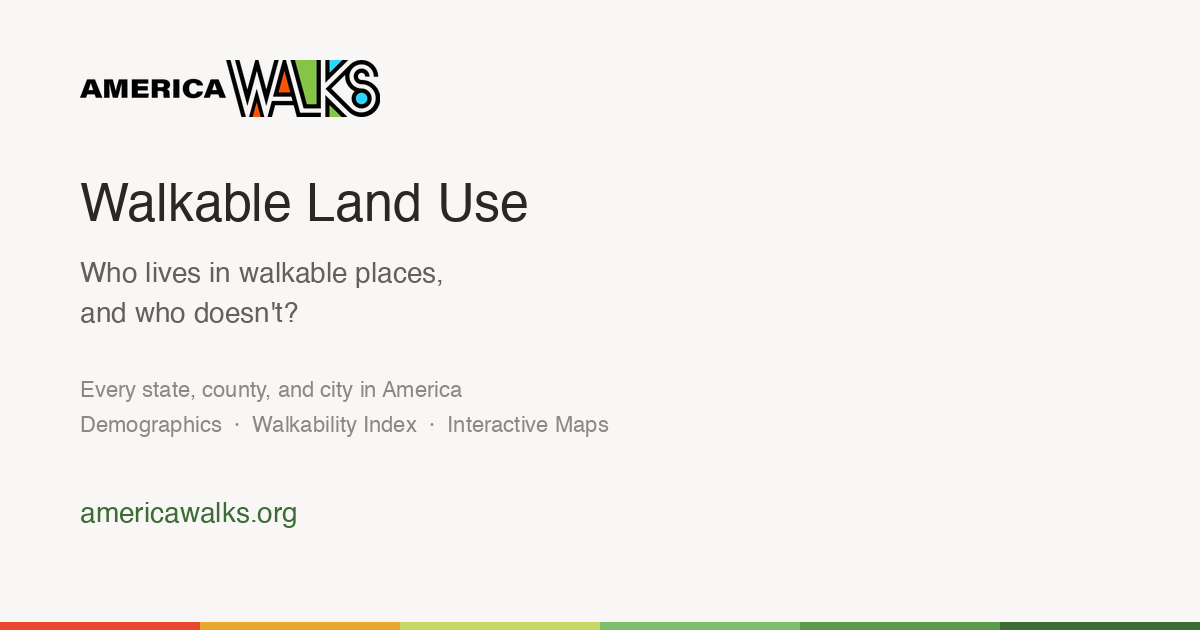
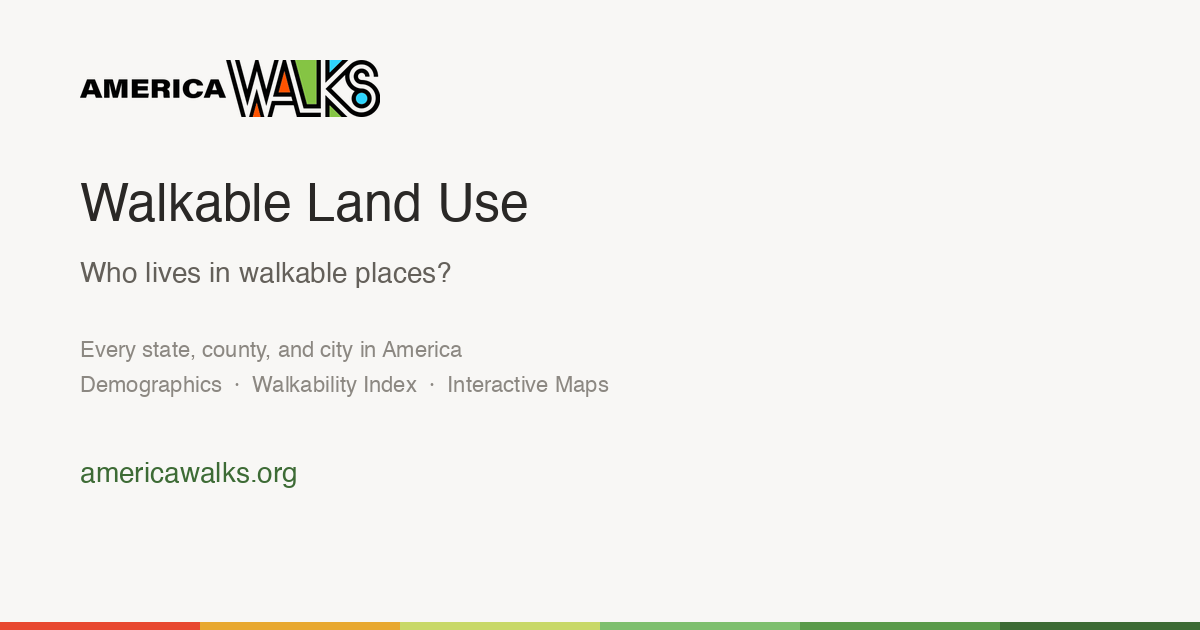
Update copy: remove equity language, simplify OG text, lower demo threshold
OG image/meta: "Who lives in walkable places?" (drop "and who doesn't").
Replace "walkability equity" with "walkability and demographics" in all
meta descriptions.

Lower demographic display threshold from 500 to 200 population. Area-
weighted estimates are still reasonable at this level (typically 1-2
block groups contributing).

Trim about panel: remove sentences about standard practice and the
suppression threshold from methodology section.

diff --git a/src/main.ts b/src/main.ts
@@ -1041,7 +1041,7 @@ function renderDemoPanel(j: Jurisdiction) {
   renderDemoContent()
 }
 
-const DEMO_MIN_POP = 500
+const DEMO_MIN_POP = 200
 
 function renderDemoContent() {
   const j = currentJurisdiction
@@ -1050,7 +1050,7 @@ function renderDemoContent() {
   const section = DEMO_SECTIONS[currentDemoCategory]
 
   if (j.population < DEMO_MIN_POP) {
-    content.innerHTML = '<p class="demo-note">Demographics not shown for jurisdictions under 500 population — area-weighted estimates are unreliable at this scale.</p>'
+    content.innerHTML = '<p class="demo-note">Demographics not shown for jurisdictions under 200 population — area-weighted estimates are unreliable at this scale.</p>'
     return
   }
 
@@ -1196,7 +1196,7 @@ function showMethodology() {
     </div>
     <div class="demo-section">
       <div class="demo-title">City &amp; Place Statistics</div>
-      <p class="method-text">City and place statistics are calculated using <strong>area-weighted interpolation</strong>. Census block groups often cross municipal boundaries, so we estimate each city's demographics by proportioning block group data according to how much of the block group's area falls within the city. This method is standard in geographic analysis but introduces uncertainty for smaller places where a single block group may span the entire city boundary. Statistics for places under 500 population are suppressed.</p>
+      <p class="method-text">City and place statistics are calculated using <strong>area-weighted interpolation</strong>. Census block groups often cross municipal boundaries, so we estimate each city's demographics by proportioning block group data according to how much of the block group's area falls within the city.</p>
     </div>
     <div class="demo-section method-credit">
       Built by Elliott Day for <strong>America Walks</strong> · americawalks.org
@@ -1315,7 +1315,7 @@ function renderJvDemoGrid(j: Jurisdiction) {
   const grid = document.getElementById('jv-demo-grid')!
 
   if (j.population < DEMO_MIN_POP) {
-    grid.innerHTML = '<p class="demo-note" style="grid-column:1/-1">Demographics not shown for jurisdictions under 500 population — area-weighted estimates are unreliable at this scale.</p>'
+    grid.innerHTML = '<p class="demo-note" style="grid-column:1/-1">Demographics not shown for jurisdictions under 200 population — area-weighted estimates are unreliable at this scale.</p>'
     return
   }
 

diff --git a/index.html b/index.html
@@ -4,18 +4,18 @@
     <meta charset="UTF-8" />
     <meta name="viewport" content="width=device-width, initial-scale=1.0" />
     <title>Walkable Land Use — America Walks</title>
-    <meta name="description" content="Who lives in walkable places, and who doesn't? Explore walkability equity across race, income, age, education, and more — for every state, county, and city in America." />
+    <meta name="description" content="Who lives in walkable places? Explore walkability and demographics across race, income, age, education, and more — for every state, county, and city in America." />
     <link rel="icon" type="image/png" href="/favicon.png" />
     <link rel="apple-touch-icon" href="/apple-touch-icon.png" />
     <meta property="og:title" content="Walkable Land Use — America Walks" />
-    <meta property="og:description" content="Who lives in walkable places, and who doesn't? Explore walkability equity across race, income, age, education, and more — for every state, county, and city in America." />
+    <meta property="og:description" content="Who lives in walkable places? Explore walkability and demographics across race, income, age, education, and more — for every state, county, and city in America." />
     <meta property="og:image" content="https://walkable-land-use.pages.dev/og-image.png" />
     <meta property="og:url" content="https://walkable-land-use.pages.dev" />
     <meta property="og:type" content="website" />
     <meta property="og:site_name" content="Walkable Land Use — America Walks" />
     <meta name="twitter:card" content="summary_large_image" />
     <meta name="twitter:title" content="Walkable Land Use — America Walks" />
-    <meta name="twitter:description" content="Who lives in walkable places, and who doesn't? Explore walkability equity for every state, county, and city in America." />
+    <meta name="twitter:description" content="Who lives in walkable places? Explore walkability and demographics for every state, county, and city in America." />
     <meta name="twitter:image" content="https://walkable-land-use.pages.dev/og-image.png" />
     <link rel="stylesheet" href="https://unpkg.com/maplibre-gl@5.5.0/dist/maplibre-gl.css" />
   </head>

diff --git a/scripts/build_og.py b/scripts/build_og.py
@@ -171,15 +171,14 @@ def build_og_image():
     draw.text((80, 180), "Walkable Land Use", fill=dark, font=title_font)
 
     # Subtitle
-    draw.text((80, 260), "Who lives in walkable places,", fill=(100, 96, 90), font=sub_font)
-    draw.text((80, 300), "and who doesn't?", fill=(100, 96, 90), font=sub_font)
+    draw.text((80, 260), "Who lives in walkable places?", fill=(100, 96, 90), font=sub_font)
 
     # Stats line
-    draw.text((80, 380), "Every state, county, and city in America", fill=(140, 136, 130), font=small_font)
-    draw.text((80, 415), "Demographics  \u00b7  Walkability Index  \u00b7  Interactive Maps", fill=(140, 136, 130), font=small_font)
+    draw.text((80, 340), "Every state, county, and city in America", fill=(140, 136, 130), font=small_font)
+    draw.text((80, 375), "Demographics  \u00b7  Walkability Index  \u00b7  Interactive Maps", fill=(140, 136, 130), font=small_font)
 
     # URL
-    draw.text((80, 500), "americawalks.org", fill=green, font=sub_font)
+    draw.text((80, 460), "americawalks.org", fill=green, font=sub_font)
 
     out = PUBLIC / "og-image.png"
     img.save(out, "PNG", optimize=True)
